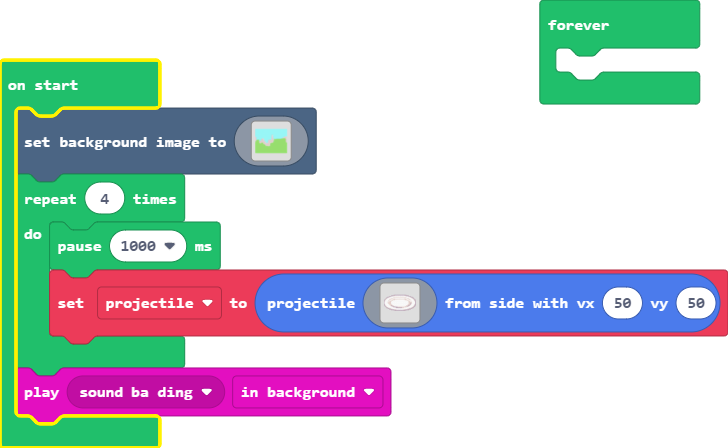
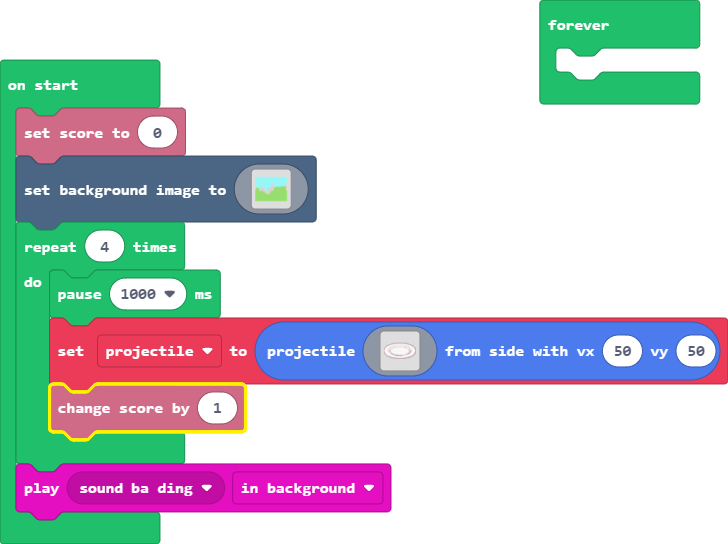
Update main.blocks, main.ts

Changed region(s): [[0.0, 0.0938, 1.0, 1.0], [0.7253, 0.0312, 0.967, 0.25], [0.272, 0.4688, 0.3022, 0.5]]

diff --git a/main.ts b/main.ts
@@ -1,4 +1,5 @@
 let projectile: Sprite = null
+info.setScore(0)
 scene.setBackgroundImage(img`
     9999999999999999999999999999999999999999999999999999999999999999999999999999999999999999999999999999999999999999999999999999999999999999999999999999999999999999
     9999999999999999999999999999999999999999999999999999999999999999999999999999999999999999999999999999999999999999999999999999999999999999999999999999999999999999
@@ -149,6 +150,7 @@ for (let index = 0; index < 4; index++) {
         ...........bbbbbddd11111111111dddbbbbb...........
         ................bbbbbbbbbbbbbbbbb................
         `, 50, 50)
+    info.changeScoreBy(1)
 }
 music.play(music.melodyPlayable(music.baDing), music.PlaybackMode.InBackground)
 forever(function () {
